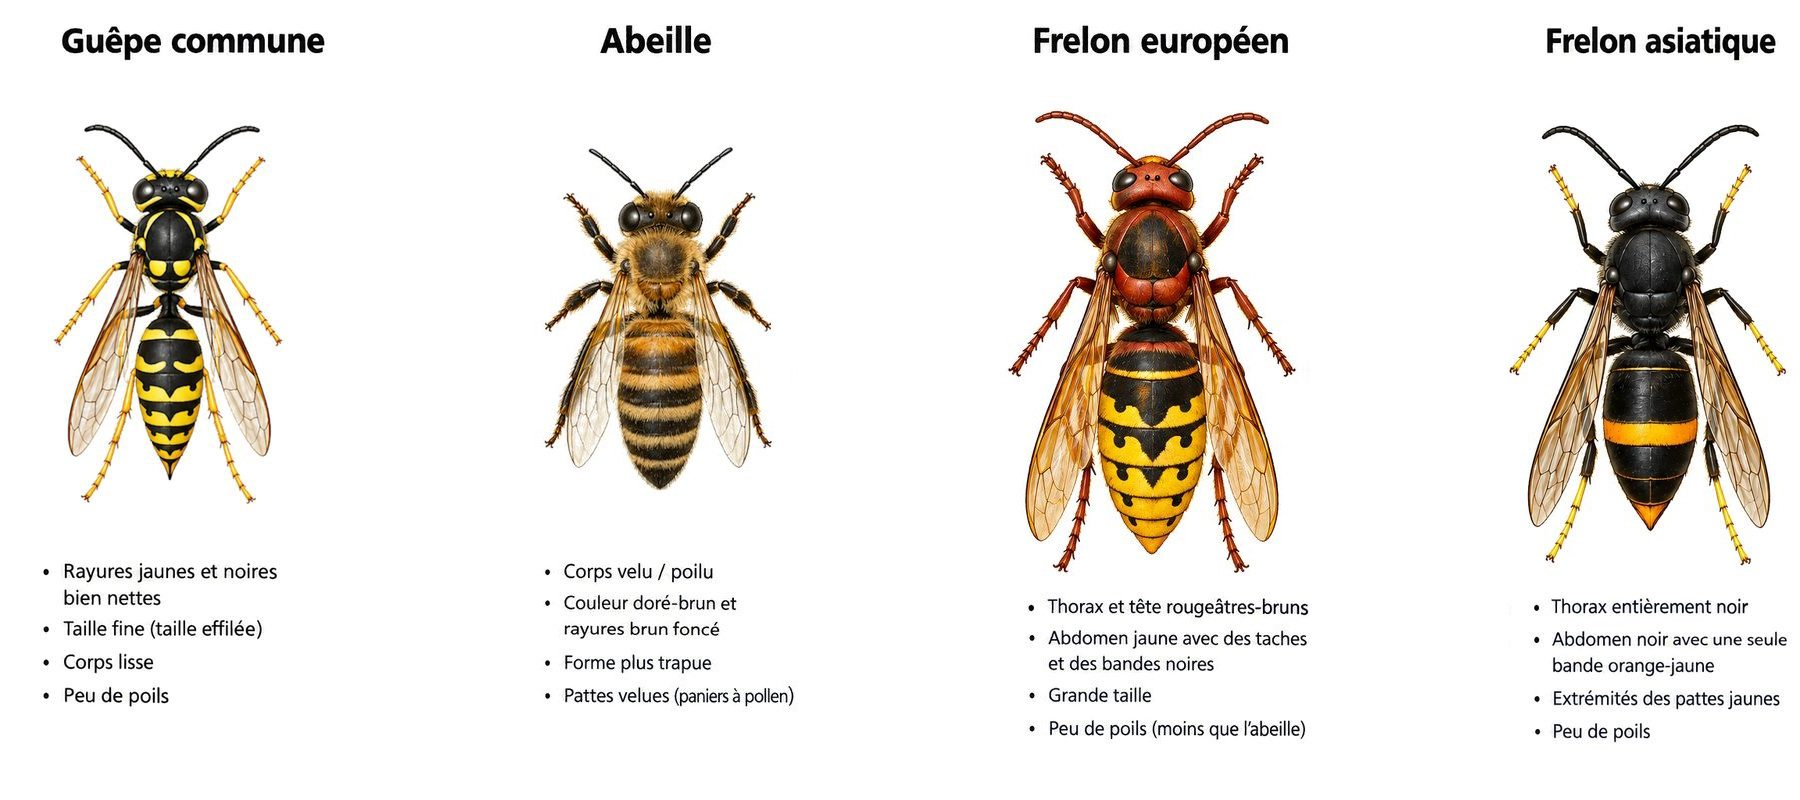
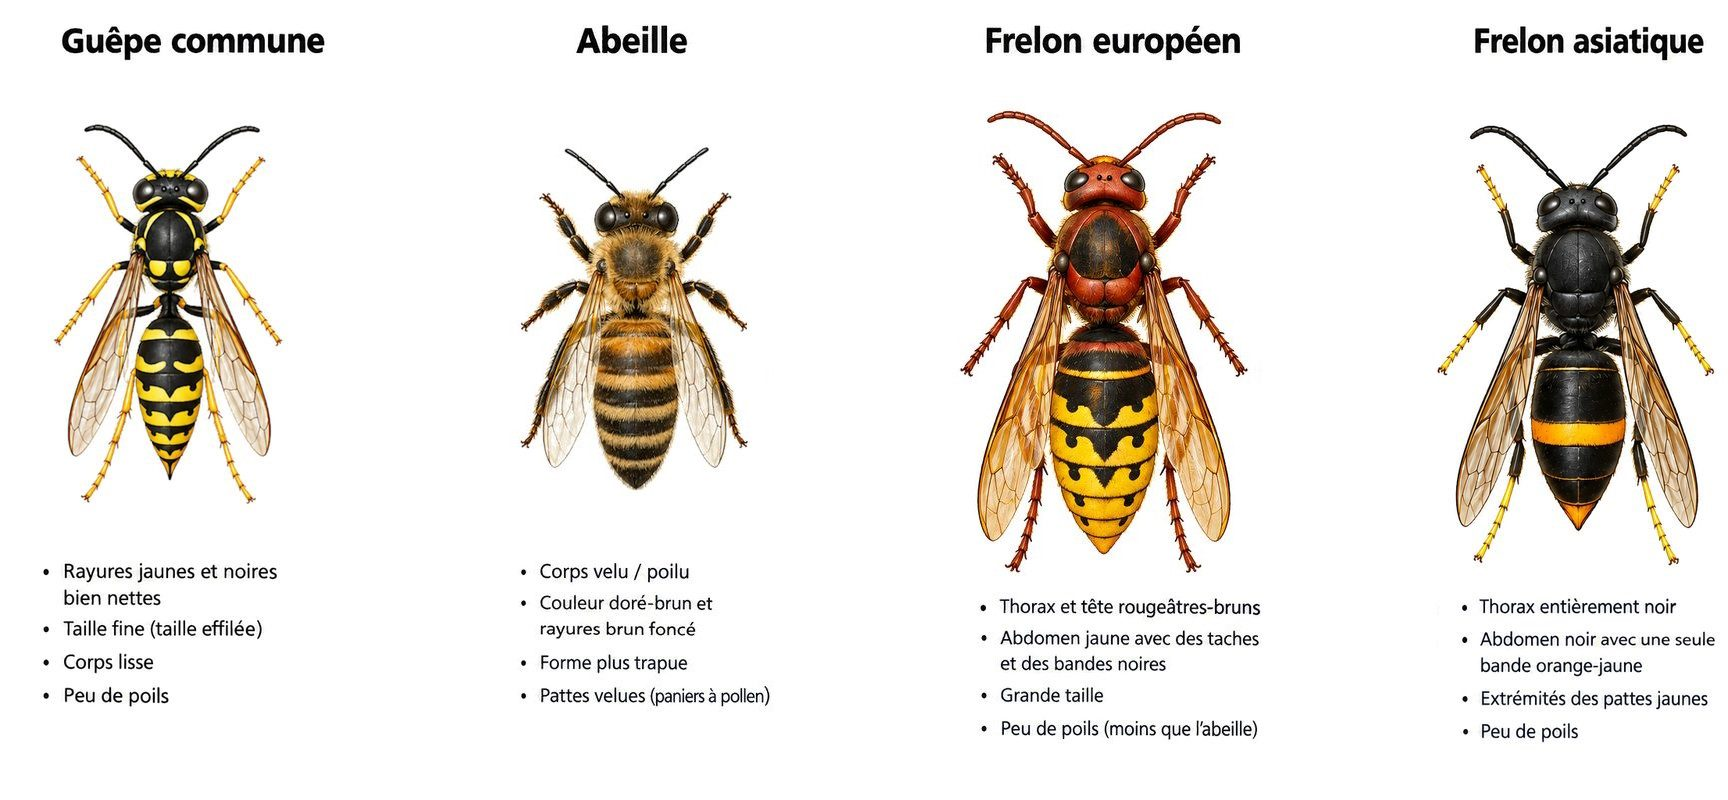
Add files via upload

diff --git a/index.html b/index.html
@@ -1707,7 +1707,7 @@ function imgFallback(img) {
         <p>L'abeille a un corps dodu et poilu, de couleur brun doré, et meurt après avoir piqué une seule fois. La guêpe n'a presque pas de poils, avec des rayures jaune et noir bien marquées et une taille très fine. Le frelon européen ressemble à une grosse guêpe rousse. Le frelon asiatique est plus sombre, avec un thorax brun noir, une tête orange et l'extrémité des pattes jaune.</p>
         <picture>
           <source media="(max-width: 768px)" srcset="faq-especes-mobile.jpg">
-          <img src="faq-especes.jpg" alt="Comparaison visuelle entre une guêpe commune, une abeille, un frelon européen et un frelon asiatique" class="faq-img" width="1200" height="800" loading="lazy" decoding="async">
+          <img src="faq-especes.jpg" alt="Comparaison visuelle entre une guêpe commune, une abeille, un frelon européen et un frelon asiatique" class="faq-img" width="1728" height="800" loading="lazy" decoding="async">
         </picture>
       </details>
       <details class="faq-item">
